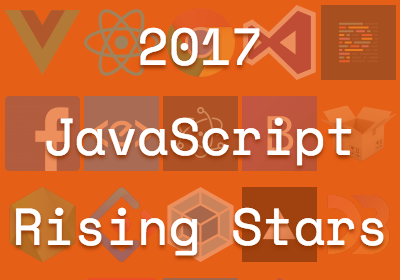
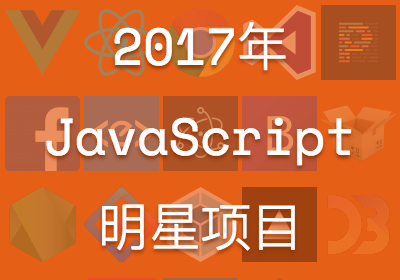
Add image used when sharing on social medias, for Chinese

Changed region(s): [[0.03, 0.7143, 0.96, 0.9429], [0.27, 0.0857, 0.72, 0.2571]]

diff --git a/src/components/ProjectIconWall/index.js b/src/components/ProjectIconWall/index.js
@@ -24,7 +24,12 @@ const Wall = ({ projects, lang = 'ja', year }) => {
         JavaScript<br /> ベスト・オブ・ザ・イヤー{year}
       </span>
     ),
-    fr: `Le Meilleur du JavaScript en 2017`
+    fr: `Le Meilleur du JavaScript en 2017`,
+    zh: (
+      <span>
+        2017年<br />JavaScript<br />明星项目
+      </span>
+    )
   }
   const title = titles[lang] || titles['en']
   const niceProjects = projects

diff --git a/src/components/ProjectIconWall/style.css b/src/components/ProjectIconWall/style.css
@@ -6,6 +6,8 @@
 #wall .text {
   position: absolute;
   top: 0;
+  left: 0;
+  right: 0;
   color: white;
   font-size: 3.2rem;
   line-height: 90px;
